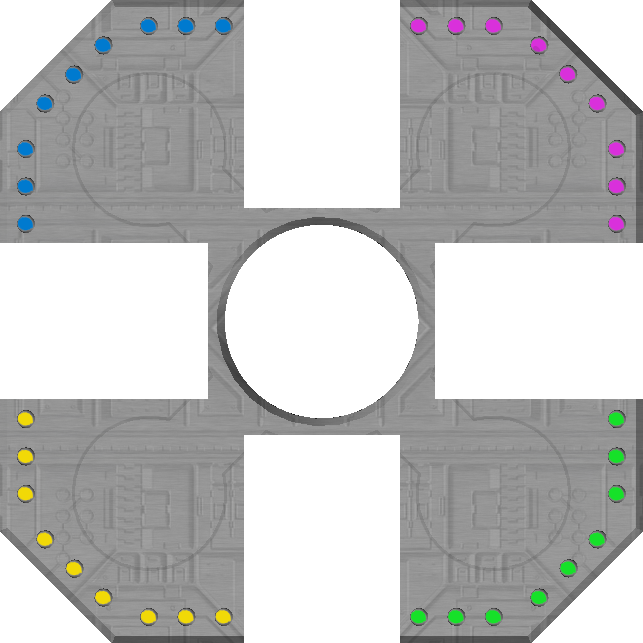
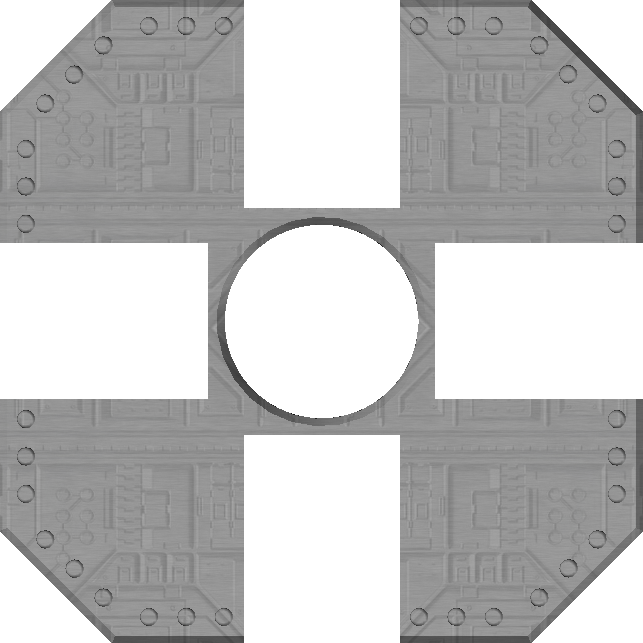
Add diagonal sensors

diff --git a/classes/Ship.js b/classes/Ship.js
@@ -17,6 +17,7 @@ class Ship {
   }
   static canvasWidth
   static canvasHeight
+  static powerSound = new Audio('../sounds/powerDown.mp3')
   static baseImage = new Image()
   static glassImage = new Image()
   static coreImage = new Image()
@@ -42,6 +43,54 @@ class Ship {
     top: true,
     bottom: true
   }
+
+  static topLeftSensors = [
+    { x: 411, y: 314},
+    { x: 411, y: 304},
+    { x: 411, y: 294},
+    { x: 416, y: 282},
+    { x: 424, y: 274},
+    { x: 432, y: 266},
+    { x: 444, y: 261},
+    { x: 454, y: 261},
+    { x: 464, y: 261}
+  ]
+
+  static topRightSensors = [
+    { x: 516, y: 261},
+    { x: 526, y: 261},
+    { x: 536, y: 261},
+    { x: 548, y: 266},
+    { x: 556, y: 274},
+    { x: 564, y: 282},
+    { x: 569, y: 294},
+    { x: 569, y: 304},
+    { x: 569, y: 314},
+  ]
+
+  static bottomLeftSensors = [
+    { x: 411, y: 366},
+    { x: 411, y: 376},
+    { x: 411, y: 386},
+    { x: 416, y: 398},
+    { x: 424, y: 406},
+    { x: 432, y: 414},
+    { x: 444, y: 419},
+    { x: 454, y: 419},
+    { x: 464, y: 419}
+  ]
+
+  static bottomRightSensors = [
+    { x: 516, y: 419},
+    { x: 526, y: 419},
+    { x: 536, y: 419},
+    { x: 548, y: 414},
+    { x: 556, y: 406},
+    { x: 564, y: 398},
+    { x: 569, y: 386},
+    { x: 569, y: 376},
+    { x: 569, y: 366},
+  ]
 
   /** @type { 'none' | 'left' | 'right' | 'top' | 'bottom' } */
   static shield = 'none'
@@ -263,6 +312,57 @@ class Ship {
     if (Ship.cannon === side) Ship.cannon = 'none'
   }
 
+  
+  /**
+   * Get damage from diagonal
+   * @param { 'topLeft' | 'topRight' | 'bottomLeft' | 'bottomRight' } side 
+   */
+  diagonalDamage(side) {
+    switch (side) {
+      case 'topLeft':
+        if (Ship.topLeftSensors.length) {
+          Ship.powerSound.play()
+          setTimeout(() => Ship.topLeftSensors.shift(), 500)
+          setTimeout(() => Ship.topLeftSensors.shift(), 1000)
+          setTimeout(() => Ship.topLeftSensors.shift(), 1500)
+        } else {
+          console.log('Ship destroyed')
+        }
+        break
+      case 'topRight':
+        if (Ship.topRightSensors.length) {
+          Ship.powerSound.play()
+          setTimeout(() => Ship.topRightSensors.shift(), 500)
+          setTimeout(() => Ship.topRightSensors.shift(), 1000)
+          setTimeout(() => Ship.topRightSensors.shift(), 1500)
+        } else {
+          console.log('Ship destroyed')
+        }
+        break
+      case 'bottomLeft':
+        if (Ship.bottomLeftSensors.length) {
+          Ship.powerSound.play()
+          setTimeout(() => Ship.bottomLeftSensors.shift(), 500)
+          setTimeout(() => Ship.bottomLeftSensors.shift(), 1000)
+          setTimeout(() => Ship.bottomLeftSensors.shift(), 1500)
+        } else {
+          console.log('Ship destroyed')
+        }
+        break
+      case 'bottomRight':
+        if (Ship.bottomRightSensors.length) {
+          Ship.powerSound.play()
+          setTimeout(() => Ship.bottomRightSensors.shift(), 500)
+          setTimeout(() => Ship.bottomRightSensors.shift(), 1000)
+          setTimeout(() => Ship.bottomRightSensors.shift(), 1500)
+        } else {
+          console.log('Ship destroyed')
+        }
+      default:
+        break
+    }
+  }
+
 
   draw() {
     Ship.context.drawImage(Ship.coreImage, Ship.coreAnimationX, Ship.coreAnimationY, 100, 100, (Ship.canvasWidth - 48) / 2, (Ship.canvasHeight - 48) / 2, 48, 48)
@@ -272,6 +372,39 @@ class Ship {
     Ship.context.drawImage(Ship.orbs.magenta, Ship.orbAnimationX, Ship.orbAnimationY, 100, 100, 520, 278, 32, 32)
     Ship.context.drawImage(Ship.orbs.yellow, Ship.orbAnimationX, Ship.orbAnimationY, 100, 100, 428, 370, 32, 32)
     Ship.context.drawImage(Ship.orbs.green, Ship.orbAnimationX, Ship.orbAnimationY, 100, 100, 520, 370, 32, 32)
+
+    Ship.context.beginPath()
+    Ship.context.fillStyle = '#d930db'
+    Ship.topRightSensors.forEach(coords => {
+      Ship.context.arc(coords.x, coords.y, 2, 0, 2 * Math.PI)
+      Ship.context.closePath()
+    })
+    Ship.context.fill()
+
+    Ship.context.beginPath()
+    Ship.context.fillStyle = '#007acf'
+    Ship.topLeftSensors.forEach(coords => {
+      Ship.context.arc(coords.x, coords.y, 2, 0, 2 * Math.PI)
+      Ship.context.closePath()
+    })
+    Ship.context.fill()
+
+    Ship.context.beginPath()
+    Ship.context.fillStyle = '#f1d907'
+    Ship.bottomLeftSensors.forEach(coords => {
+      Ship.context.arc(coords.x, coords.y, 2, 0, 2 * Math.PI)
+      Ship.context.closePath()
+    })
+    Ship.context.fill()
+
+    Ship.context.beginPath()
+    Ship.context.fillStyle = '#16e129'
+    Ship.bottomRightSensors.forEach(coords => {
+      Ship.context.arc(coords.x, coords.y, 2, 0, 2 * Math.PI)
+      Ship.context.closePath()
+    })
+    Ship.context.fill()
+
     Ship.drawGlass()
     if (Ship.shield !== 'none') Ship.drawShield()
     Ship.drawCannon()
